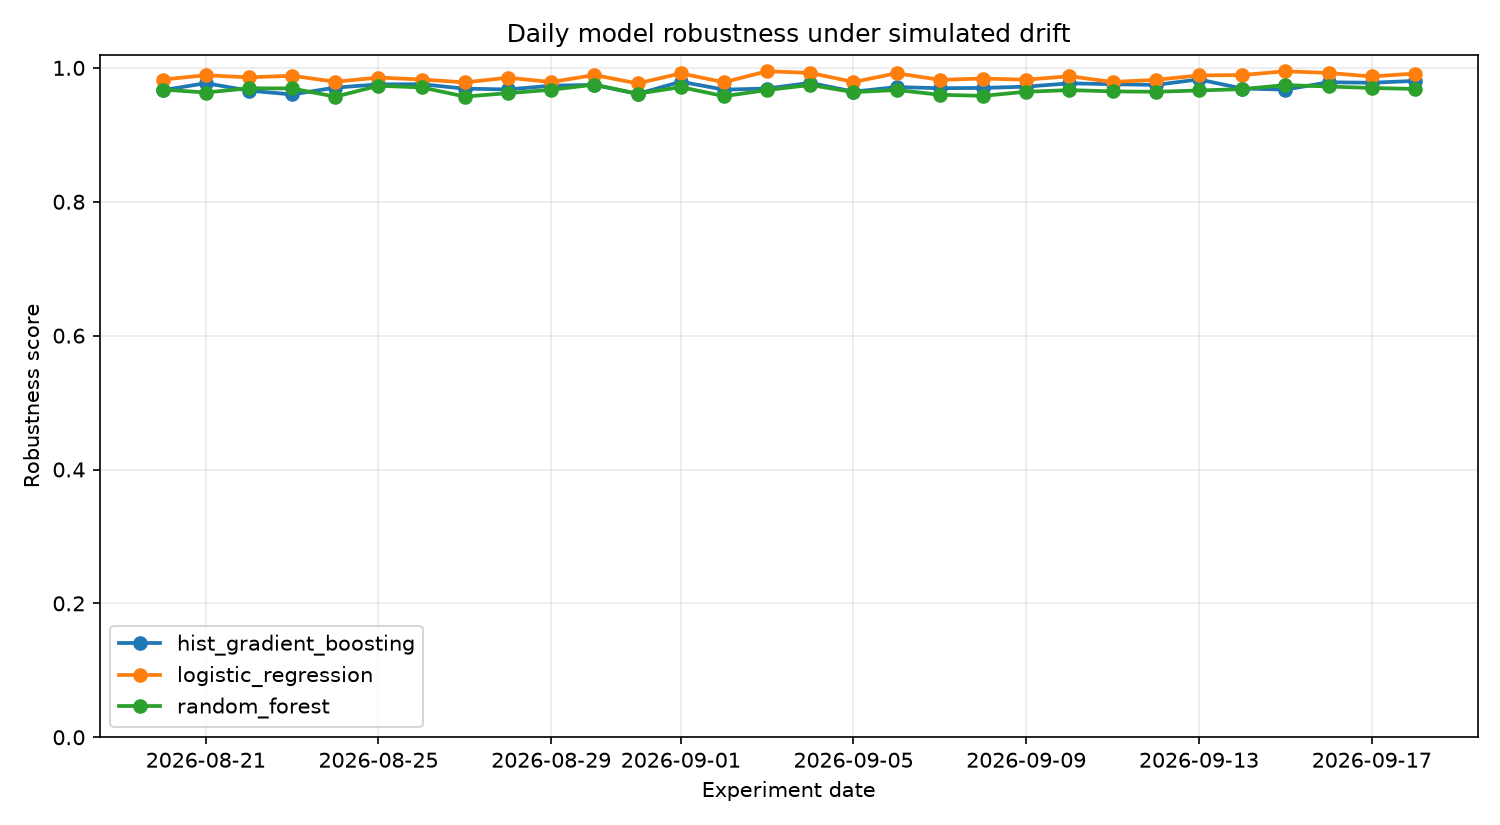
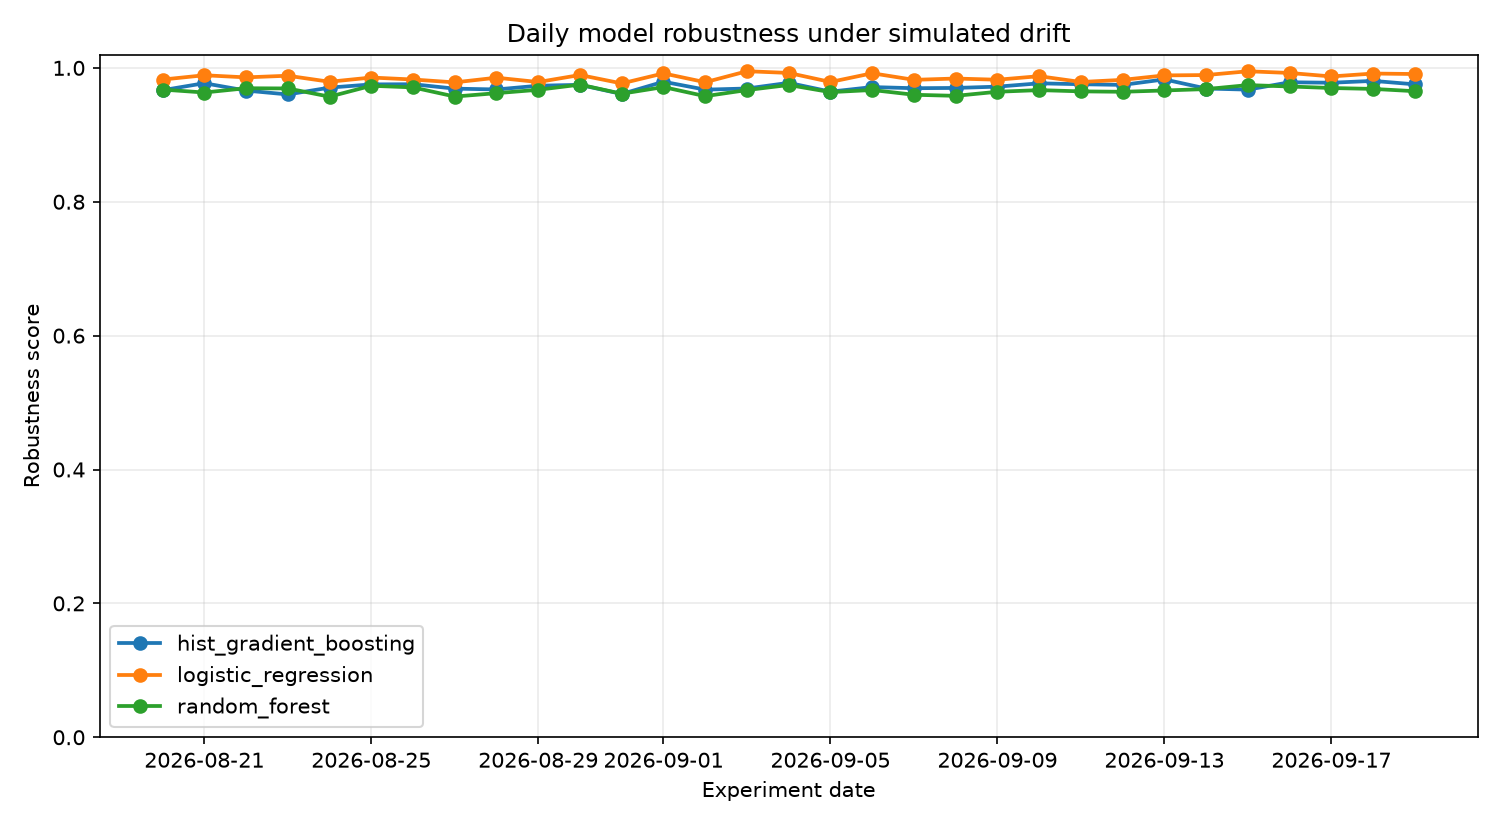
chore(observatory): daily drift benchmark 2026-09-19

diff --git a/reports/latest.md b/reports/latest.md
@@ -1,37 +1,37 @@
 # Latest DriftWatch Report
 
-**Experiment date:** 2026-09-18
+**Experiment date:** 2026-09-19
 
 ## Drift scenario
 
-- Drift strength: `0.331`
-- Scale factor: `0.967`
-- Noise ratio: `0.065`
-- Mask ratio: `0.017`
-- Affected features: mean concave points, perimeter error, concave points error, fractal dimension error, worst concavity, worst concave points, worst symmetry
+- Drift strength: `0.400`
+- Scale factor: `0.960`
+- Noise ratio: `0.073`
+- Mask ratio: `0.019`
+- Affected features: mean smoothness, mean compactness, mean concave points, smoothness error, fractal dimension error, worst concavity, worst symmetry
 
 ## Model ranking
 
 | Rank | Model | Robustness | ROC-AUC | F1 | Balanced Acc. | Log Loss | Brier |
 |---:|---|---:|---:|---:|---:|---:|---:|
-| 1 | `logistic_regression` | 0.9915 | 0.9978 | 0.9907 | 0.9844 | 0.0646 | 0.0167 |
-| 2 | `hist_gradient_boosting` | 0.9806 | 0.9950 | 0.9772 | 0.9609 | 0.1041 | 0.0277 |
-| 3 | `random_forest` | 0.9686 | 0.9924 | 0.9585 | 0.9391 | 0.1298 | 0.0375 |
+| 1 | `logistic_regression` | 0.9908 | 0.9966 | 0.9907 | 0.9844 | 0.0722 | 0.0192 |
+| 2 | `hist_gradient_boosting` | 0.9754 | 0.9909 | 0.9727 | 0.9531 | 0.1322 | 0.0342 |
+| 3 | `random_forest` | 0.9652 | 0.9904 | 0.9537 | 0.9344 | 0.1389 | 0.0395 |
 
 ## Highest feature drift (PSI)
 
 | Feature | PSI |
 |---|---:|
-| worst symmetry | 0.2795 |
-| perimeter error | 0.2599 |
-| texture error | 0.2555 |
-| worst concavity | 0.1921 |
-| worst concave points | 0.1872 |
-| fractal dimension error | 0.1695 |
-| mean concave points | 0.1309 |
-| mean concavity | 0.1157 |
+| worst symmetry | 0.3638 |
+| mean concave points | 0.2414 |
+| worst concavity | 0.2374 |
+| fractal dimension error | 0.2156 |
+| mean texture | 0.1828 |
+| perimeter error | 0.1629 |
+| smoothness error | 0.1511 |
+| texture error | 0.1429 |
 
-**Mean PSI:** `0.0965`  
-**Max PSI:** `0.2795`
+**Mean PSI:** `0.1047`  
+**Max PSI:** `0.3638`
 
 _Generated automatically by the DriftWatch daily observatory pipeline._
